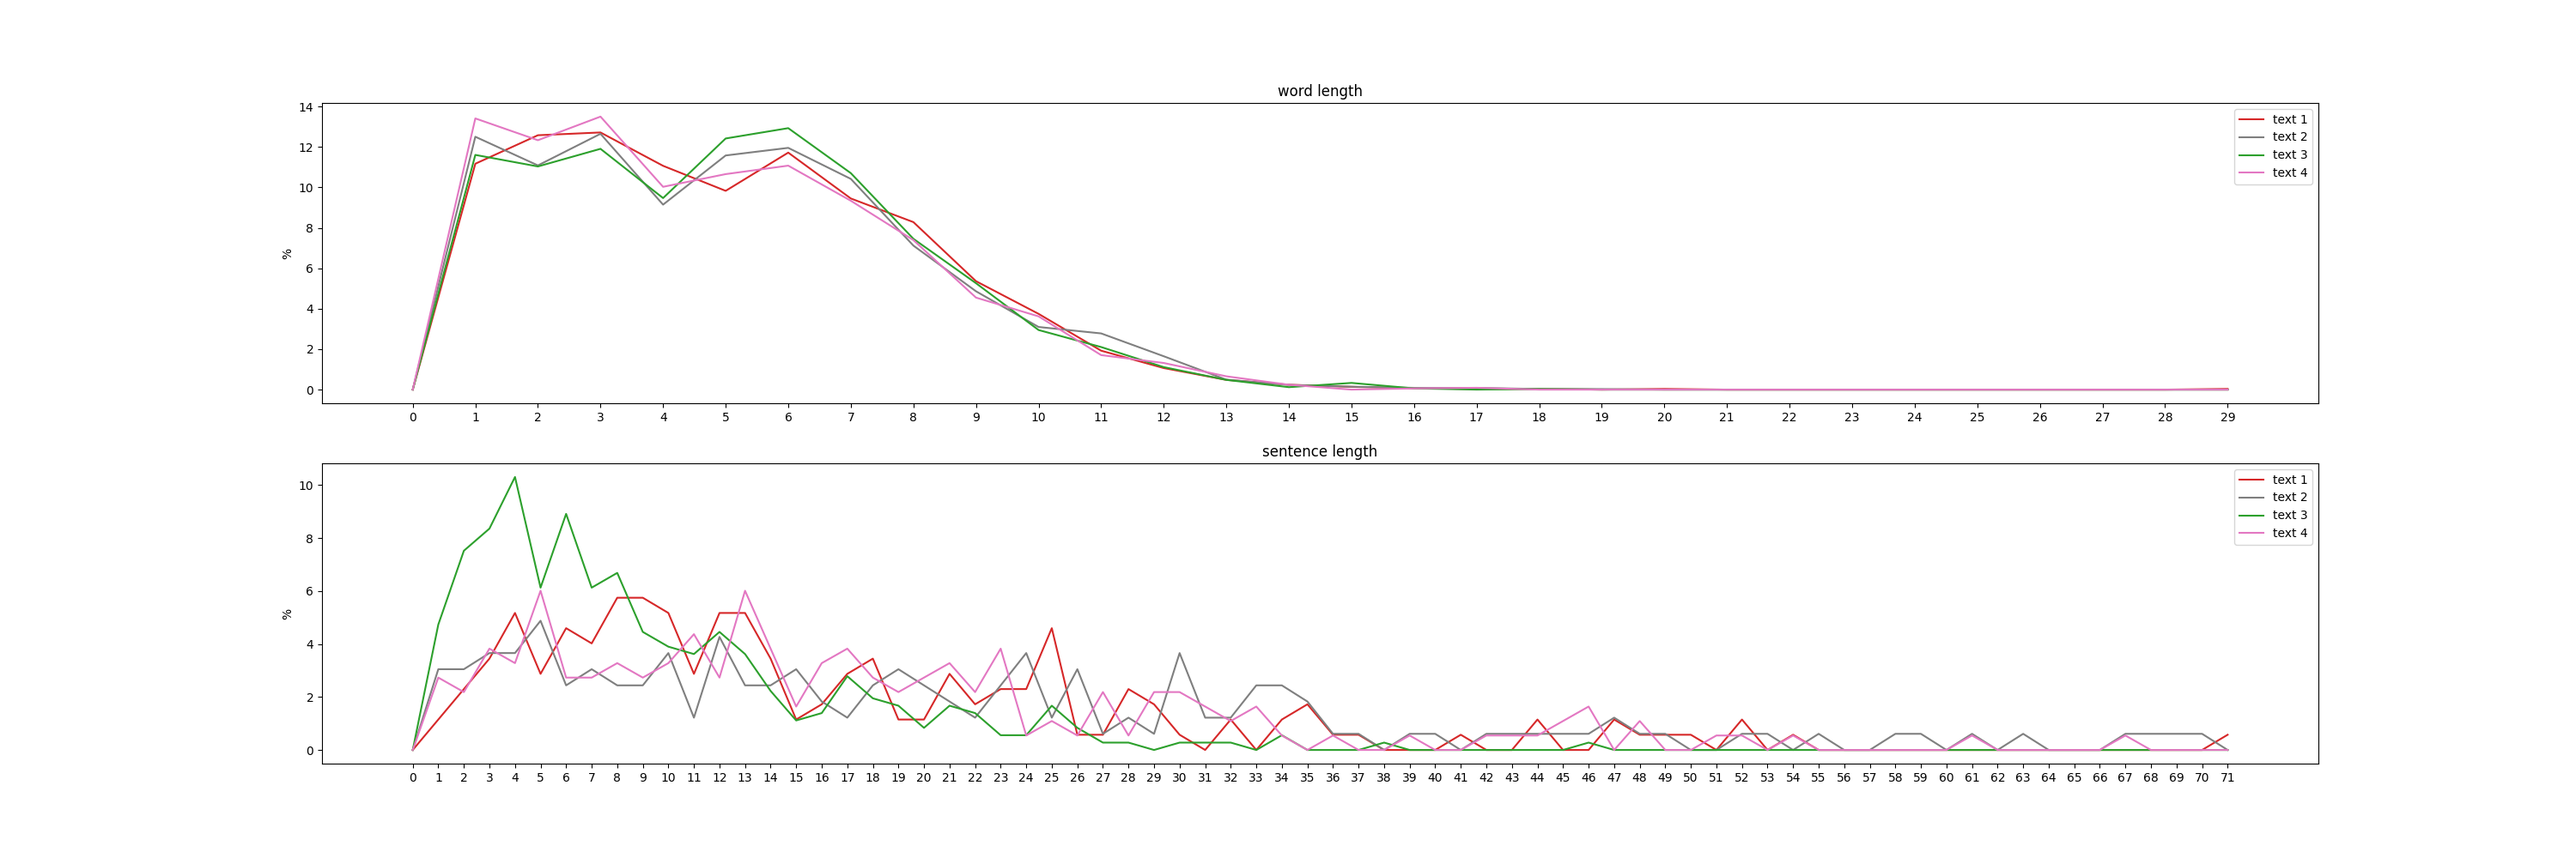
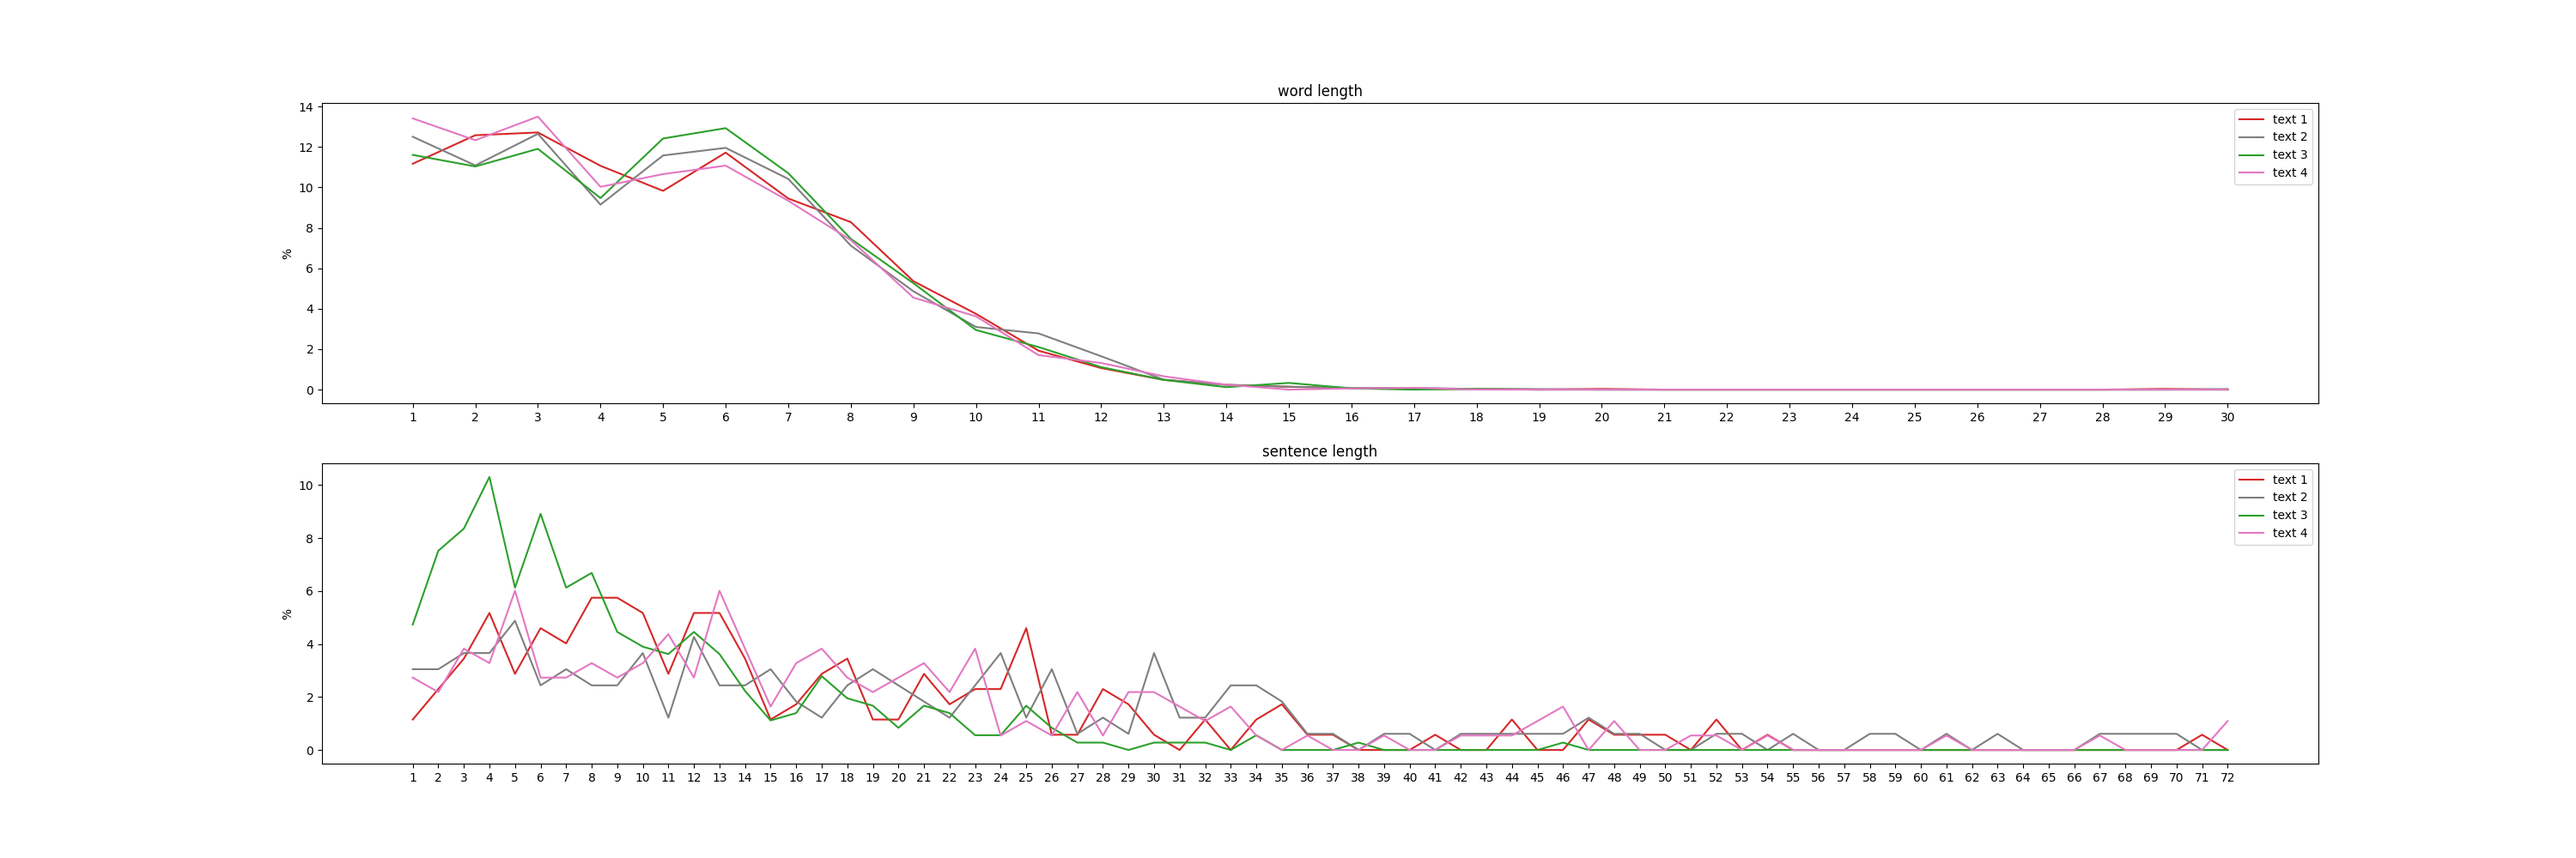
small changes

Changed region(s): [[0.155, 0.558, 0.775, 0.899], [0.155, 0.124, 0.589, 0.465], [0.806, 0.837, 0.868, 0.868]]

diff --git a/analytics/app/lenPlots.py b/analytics/app/lenPlots.py
@@ -28,7 +28,7 @@ def lensPlot(wordLenCount: list[list[tuple[int, int]]], sentenceLenCount: list[l
         for i, d in enumerate(count):
             newCount[i] = {a[0]: a[1] for a in d}
 
-        plotter.plot(ax, newCount, PlotType.PLOT, list(range(mx)))
+        plotter.plot(ax, newCount, PlotType.PLOT, list(range(1, mx+1)))
         ax.set_title(key)
 
     return fig

diff --git a/analytics/main.py b/analytics/main.py
@@ -22,8 +22,7 @@ def main() -> None:
             files.append(d)
 
     colors = ['tab:red', 'tab:grey', 'tab:green', 'tab:pink']
-    plotsPath = "analytics/plots/"  
-    plt.tight_layout()
+    plotsPath = "analytics/plots/"
 
     charFig = charsPlot([f["charCnt"] for f in files], colors)
     charFig.savefig(plotsPath + "chars.png")
